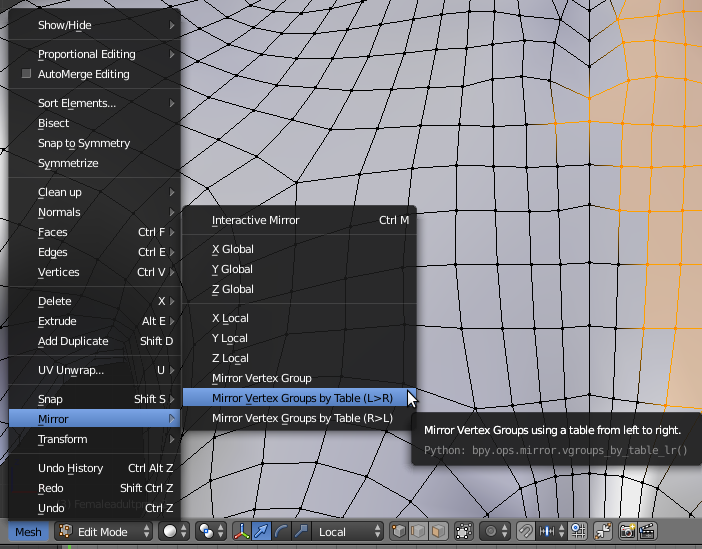
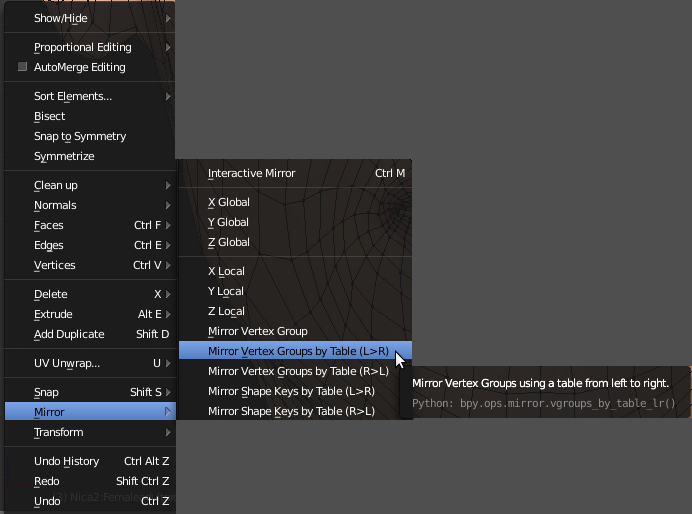
added shapekey support and images for documentation

diff --git a/blender2_8/io_mhw_import_export.py b/blender2_8/io_mhw_import_export.py
@@ -44,14 +44,18 @@ mirror selection in edit mode
     select > Mirror Mesh by Table
 
 mirror vertex groups (edit mode .. switches to object mode)
-    mesh > mirror > Mirror Vertex Groups by Table (L>R)   
-    mesh > mirror > Mirror Vertex Groups by Table (R>L)   
+    mesh > mirror > Mirror Vertex Groups by Table (L>R)
+    mesh > mirror > Mirror Vertex Groups by Table (R>L)
+
+mirror shape keys (edit mode .. switches to object mode)
+    mesh > mirror > Mirror Shape Keys by Table (L>R)
+    mesh > mirror > Mirror Shape Keys by Table (R>L)
 """
 
 bl_info = {
     "name": "MakeHuman Weighting",
     "author": "black-punkduck",
-    "version": (2019, 9, 21),
+    "version": (2019, 9, 22),
     "blender": (2, 80, 0),
     "location": "File > Export > MakeHuman Weightfile",
     "description": "Import and Export a MakeHuman weightfile (.mhw), Mirroring using a mirror-table",
@@ -418,6 +422,72 @@ def mirror_vgroups (context, direction):
 
     return {'FINISHED'}
 
+def mirror_shapekeys (context, direction):
+    bpy.ops.object.mode_set(mode='OBJECT')
+    ob = context.active_object
+
+    # load mirrored table
+    #
+    mirrortab = ob['mirrortable']
+    if read_mirror_tab (mirrortab) is False:
+        ShowMessageBox("Cannot load " + mirrortab, "Mirror Table Mismatch", 'ERROR')
+        return {'CANCELLED'}
+
+    # delete all shapekeys of destination side
+    # keep those in an array we want to change
+    #   
+
+    names = []
+
+    for shape in ob.data.shape_keys.key_blocks:
+        (orientation, partner) = evaluate_side(shape.name)
+        if orientation != 'm' and orientation != direction:
+            print ("delete shape key " + shape.name)
+            ob.shape_key_remove(shape)
+        else:
+            # in case of "Basis", skip
+            if shape.name != "Basis":
+                names.append(shape.name)
+            
+
+    # get original object once
+    basis = ob.data.shape_keys.key_blocks["Basis"].data
+
+    # now create mirrored groups and symmetrize mid ones
+    #
+    for name in names:
+        # now check what to do
+        #
+        (orientation, partner) = evaluate_side(name)
+
+        if orientation == 'm':
+            # create internal group symmetry
+            # print ("Symmetrize " + name)
+            source = ob.data.shape_keys.key_blocks[name].data
+            for idx, vert in enumerate (source):
+                if mirror[idx]['s'] == direction:
+                    destvert = mirror[idx]['m']
+                    x = basis[idx].co[0] - vert.co[0]
+                    y = basis[idx].co[1] - vert.co[1]
+                    z = basis[idx].co[2] - vert.co[2]
+                    source[destvert].co = [basis[destvert].co[0] +x , basis[destvert].co[1] - y, basis[destvert].co[2] -z]
+        else:
+            # create symmetric group
+            # print ("Creating Partner of " + name + ": " + partner)
+
+            nshapeKey = ob.shape_key_add(from_mix=False)
+            nshapeKey.name = partner
+            source = ob.data.shape_keys.key_blocks[name].data
+
+            for idx, vert in enumerate (source):
+                destvert = mirror[idx]['m']
+                x = basis[idx].co[0] - vert.co[0]
+                y = basis[idx].co[1] - vert.co[1]
+                z = basis[idx].co[2] - vert.co[2]
+                nshapeKey.data[destvert].co = [basis[destvert].co[0] +x , basis[destvert].co[1] - y, basis[destvert].co[2] -z]
+
+    return {'FINISHED'}
+
 class ExportMHW(bpy.types.Operator, ExportHelper):
     '''Export an MHW File'''
     bl_idname = "export.mhw"
@@ -472,9 +542,9 @@ class ImportMHW(bpy.types.Operator, ImportHelper):
         return {'FINISHED'}
 
 class MIRRORMESH_assign_mirrortab(bpy.types.Operator, ImportHelper):
-    '''Assign a mirror table to object'''
+    '''Assign a mirror table to a mesh'''
     bl_idname = "mirror.assign_tab"
-    bl_label = 'Assign a Mirror table to a mesh'
+    bl_label = 'Assign a Mirror Table to a Mesh'
     bl_options = {'REGISTER'}
 
     @classmethod
@@ -522,7 +592,7 @@ class MIRRORMESH_create_mirrortab(bpy.types.Operator, ExportHelper):
 class MIRRORMESH_vgroups_by_table_lr(bpy.types.Operator):
     '''Mirror Vertex Groups using a table from left to right'''
     bl_idname = "mirror.vgroups_by_table_lr"
-    bl_label = 'Mirror Mesh using a table from left to right'
+    bl_label = 'Mirror Vertex Groups using a table from left to right'
     bl_options = {'REGISTER'}
 
     @classmethod
@@ -547,6 +617,36 @@ class MIRRORMESH_vgroups_by_table_rl(bpy.types.Operator):
 
     def execute(self, context):
         mirror_vgroups(context, "r")
+        return  {'FINISHED'}
+
+class MIRRORMESH_shapekeys_by_table_lr(bpy.types.Operator):
+    '''Mirror Shape Keys using a table from left to right'''
+    bl_idname = "mirror.shapekeys_by_table_lr"
+    bl_label = 'Mirror Shape Keys using a table from left to right'
+    bl_options = {'REGISTER'}
+
+    @classmethod
+    def poll(cls, context):
+        obj = context.object
+        return obj and obj.type == "MESH" and obj.data.shape_keys is not None and 'mirrortable' in obj
+
+    def execute(self, context):
+        mirror_shapekeys(context, "l")
+        return  {'FINISHED'}
+
+class MIRRORMESH_shapekeys_by_table_rl(bpy.types.Operator):
+    '''Mirror Shape Keys using a table from right to left'''
+    bl_idname = "mirror.shapekeys_by_table_rl"
+    bl_label = 'Mirror Shape Keys using a table from right to left'
+    bl_options = {'REGISTER'}
+
+    @classmethod
+    def poll(cls, context):
+        obj = context.object
+        return obj and obj.type == "MESH" and obj.data.shape_keys is not None and 'mirrortable' in obj
+
+    def execute(self, context):
+        mirror_shapekeys(context, "r")
         return  {'FINISHED'}
 
 class MIRRORMESH_mesh_by_table(bpy.types.Operator):
@@ -615,6 +715,12 @@ def mirror_vgroups_left2right_func(self, context):
 def mirror_vgroups_right2left_func(self, context):
     self.layout.operator("mirror.vgroups_by_table_rl", text="Mirror Vertex Groups by Table (R>L)")
 
+def mirror_shapekeys_left2right_func(self, context):
+    self.layout.operator("mirror.shapekeys_by_table_lr", text="Mirror Shape Keys by Table (L>R)")
+
+def mirror_shapekeys_right2left_func(self, context):
+    self.layout.operator("mirror.shapekeys_by_table_rl", text="Mirror Shape Keys by Table (R>L)")
+
 def register():
     bpy.utils.register_class(ExportMHW)
     bpy.utils.register_class(ImportMHW)
@@ -623,6 +729,8 @@ def register():
     bpy.utils.register_class (MIRRORMESH_create_mirrortab)
     bpy.utils.register_class (MIRRORMESH_vgroups_by_table_rl)
     bpy.utils.register_class (MIRRORMESH_vgroups_by_table_lr)
+    bpy.utils.register_class (MIRRORMESH_shapekeys_by_table_rl)
+    bpy.utils.register_class (MIRRORMESH_shapekeys_by_table_lr)
     bpy.types.TOPBAR_MT_file_export.append(export_func)
     bpy.types.TOPBAR_MT_file_import.append(import_func)
     bpy.types.TOPBAR_MT_file_export.append(create_mirrortab_func)
@@ -630,6 +738,8 @@ def register():
     bpy.types.VIEW3D_MT_select_edit_mesh.prepend(mirror_select_func)
     bpy.types.VIEW3D_MT_mirror.append(mirror_vgroups_left2right_func)
     bpy.types.VIEW3D_MT_mirror.append(mirror_vgroups_right2left_func)
+    bpy.types.VIEW3D_MT_mirror.append(mirror_shapekeys_left2right_func)
+    bpy.types.VIEW3D_MT_mirror.append(mirror_shapekeys_right2left_func)
 
 def unregister():
     bpy.utils.unregister_class(ExportMHW)
@@ -639,6 +749,8 @@ def unregister():
     bpy.utils.unregister_class (MIRRORMESH_create_mirrortab)
     bpy.utils.unregister_class (MIRRORMESH_vgroups_by_table_rl)
     bpy.utils.unregister_class (MIRRORMESH_vgroups_by_table_lr)
+    bpy.utils.unregister_class (MIRRORMESH_shapekeys_by_table_rl)
+    bpy.utils.unregister_class (MIRRORMESH_shapekeys_by_table_lr)
     bpy.types.TOPBAR_MT_file_export.remove(export_func)
     bpy.types.TOPBAR_MT_file_import.remove(import_func)
     bpy.types.TOPBAR_MT_file_export.remove(create_mirrortab_func)
@@ -646,6 +758,8 @@ def unregister():
     bpy.types.VIEW3D_MT_select_edit_mesh.remove(mirror_select_func)
     bpy.types.VIEW3D_MT_mirror.remove(mirror_vgroups_left2right_func)
     bpy.types.VIEW3D_MT_mirror.remove(mirror_vgroups_right2left_func)
+    bpy.types.VIEW3D_MT_mirror.remove(mirror_shapekeys_left2right_func)
+    bpy.types.VIEW3D_MT_mirror.remove(mirror_shapekeys_right2left_func)
 
 
 if __name__ == "__main__":

diff --git a/blender2_7/io_mhw_import_export.py b/blender2_7/io_mhw_import_export.py
@@ -44,14 +44,18 @@ mirror selection in edit mode
     select > Mirror Mesh by Table
 
 mirror vertex groups (edit mode .. switches to object mode)
-    mesh > mirror > Mirror Vertex Groups by Table (L>R)   
-    mesh > mirror > Mirror Vertex Groups by Table (R>L)   
+    mesh > mirror > Mirror Vertex Groups by Table (L>R)
+    mesh > mirror > Mirror Vertex Groups by Table (R>L)
+
+mirror shape keys (edit mode .. switches to object mode)
+    mesh > mirror > Mirror Shape Keys by Table (L>R)
+    mesh > mirror > Mirror Shape Keys by Table (R>L)
 """
 
 bl_info = {
     "name": "MakeHuman Weighting",
     "author": "black-punkduck",
-    "version": (2019, 9, 21),
+    "version": (2019, 9, 22),
     "blender": (2, 79, 0),
     "location": "File > Export > MakeHuman Weightfile",
     "description": "Import and Export a MakeHuman weightfile (.mhw), Mirroring using a mirror-table",
@@ -418,6 +422,72 @@ def mirror_vgroups (context, direction):
 
     return {'FINISHED'}
 
+def mirror_shapekeys (context, direction):
+    bpy.ops.object.mode_set(mode='OBJECT')
+    ob = context.active_object
+
+    # load mirrored table
+    #
+    mirrortab = ob['mirrortable']
+    if read_mirror_tab (mirrortab) is False:
+        ShowMessageBox("Cannot load " + mirrortab, "Mirror Table Mismatch", 'ERROR')
+        return {'CANCELLED'}
+
+    # delete all shapekeys of destination side
+    # keep those in an array we want to change
+    #   
+
+    names = []
+
+    for shape in ob.data.shape_keys.key_blocks:
+        (orientation, partner) = evaluate_side(shape.name)
+        if orientation != 'm' and orientation != direction:
+            print ("delete shape key " + shape.name)
+            ob.shape_key_remove(shape)
+        else:
+            # in case of "Basis", skip
+            if shape.name != "Basis":
+                names.append(shape.name)
+            
+
+    # get original object once
+    basis = ob.data.shape_keys.key_blocks["Basis"].data
+
+    # now create mirrored groups and symmetrize mid ones
+    #
+    for name in names:
+        # now check what to do
+        #
+        (orientation, partner) = evaluate_side(name)
+
+        if orientation == 'm':
+            # create internal group symmetry
+            # print ("Symmetrize " + name)
+            source = ob.data.shape_keys.key_blocks[name].data
+            for idx, vert in enumerate (source):
+                if mirror[idx]['s'] == direction:
+                    destvert = mirror[idx]['m']
+                    x = basis[idx].co[0] - vert.co[0]
+                    y = basis[idx].co[1] - vert.co[1]
+                    z = basis[idx].co[2] - vert.co[2]
+                    source[destvert].co = [basis[destvert].co[0] +x , basis[destvert].co[1] - y, basis[destvert].co[2] -z]
+        else:
+            # create symmetric group
+            # print ("Creating Partner of " + name + ": " + partner)
+
+            nshapeKey = ob.shape_key_add(from_mix=False)
+            nshapeKey.name = partner
+            source = ob.data.shape_keys.key_blocks[name].data
+
+            for idx, vert in enumerate (source):
+                destvert = mirror[idx]['m']
+                x = basis[idx].co[0] - vert.co[0]
+                y = basis[idx].co[1] - vert.co[1]
+                z = basis[idx].co[2] - vert.co[2]
+                nshapeKey.data[destvert].co = [basis[destvert].co[0] +x , basis[destvert].co[1] - y, basis[destvert].co[2] -z]
+
+    return {'FINISHED'}
+
 class ExportMHW(bpy.types.Operator, ExportHelper):
     '''Export an MHW File'''
     bl_idname = "export.mhw"
@@ -522,7 +592,7 @@ class MIRRORMESH_create_mirrortab(bpy.types.Operator, ExportHelper):
 class MIRRORMESH_vgroups_by_table_lr(bpy.types.Operator):
     '''Mirror Vertex Groups using a table from left to right'''
     bl_idname = "mirror.vgroups_by_table_lr"
-    bl_label = 'Mirror Mesh using a table from left to right'
+    bl_label = 'Mirror Vertex Groups using a table from left to right'
     bl_options = {'REGISTER'}
 
     @classmethod
@@ -547,6 +617,36 @@ class MIRRORMESH_vgroups_by_table_rl(bpy.types.Operator):
 
     def execute(self, context):
         mirror_vgroups(context, "r")
+        return  {'FINISHED'}
+
+class MIRRORMESH_shapekeys_by_table_lr(bpy.types.Operator):
+    '''Mirror Shape Keys using a table from left to right'''
+    bl_idname = "mirror.shapekeys_by_table_lr"
+    bl_label = 'Mirror Shape Keys using a table from left to right'
+    bl_options = {'REGISTER'}
+
+    @classmethod
+    def poll(cls, context):
+        obj = context.object
+        return obj and obj.type == "MESH" and obj.data.shape_keys is not None and 'mirrortable' in obj
+
+    def execute(self, context):
+        mirror_shapekeys(context, "l")
+        return  {'FINISHED'}
+
+class MIRRORMESH_shapekeys_by_table_rl(bpy.types.Operator):
+    '''Mirror Shape Keys using a table from right to left'''
+    bl_idname = "mirror.shapekeys_by_table_rl"
+    bl_label = 'Mirror Shape Keys using a table from right to left'
+    bl_options = {'REGISTER'}
+
+    @classmethod
+    def poll(cls, context):
+        obj = context.object
+        return obj and obj.type == "MESH" and obj.data.shape_keys is not None and 'mirrortable' in obj
+
+    def execute(self, context):
+        mirror_shapekeys(context, "r")
         return  {'FINISHED'}
 
 class MIRRORMESH_mesh_by_table(bpy.types.Operator):
@@ -614,6 +714,13 @@ def mirror_vgroups_left2right_func(self, context):
 def mirror_vgroups_right2left_func(self, context):
     self.layout.operator("mirror.vgroups_by_table_rl", text="Mirror Vertex Groups by Table (R>L)")
 
+def mirror_shapekeys_left2right_func(self, context):
+    self.layout.operator("mirror.shapekeys_by_table_lr", text="Mirror Shape Keys by Table (L>R)")
+
+def mirror_shapekeys_right2left_func(self, context):
+    self.layout.operator("mirror.shapekeys_by_table_rl", text="Mirror Shape Keys by Table (R>L)")
+
+
 def register():
     bpy.utils.register_module(__name__)
     bpy.types.INFO_MT_file_export.append(export_func)
@@ -623,6 +730,8 @@ def register():
     bpy.types.VIEW3D_MT_select_edit_mesh.prepend(mirror_select_func)
     bpy.types.VIEW3D_MT_mirror.append(mirror_vgroups_left2right_func)
     bpy.types.VIEW3D_MT_mirror.append(mirror_vgroups_right2left_func)
+    bpy.types.VIEW3D_MT_mirror.append(mirror_shapekeys_left2right_func)
+    bpy.types.VIEW3D_MT_mirror.append(mirror_shapekeys_right2left_func)
 
 def unregister():
     bpy.utils.unregister_module(__name__)
@@ -633,6 +742,8 @@ def unregister():
     bpy.types.VIEW3D_MT_select_edit_mesh.remove(mirror_select_func)
     bpy.types.VIEW3D_MT_mirror.remove(mirror_vgroups_left2right_func)
     bpy.types.VIEW3D_MT_mirror.remove(mirror_vgroups_right2left_func)
+    bpy.types.VIEW3D_MT_mirror.remove(mirror_shapekeys_left2right_func)
+    bpy.types.VIEW3D_MT_mirror.remove(mirror_shapekeys_right2left_func)
 
 
 if __name__ == "__main__":
